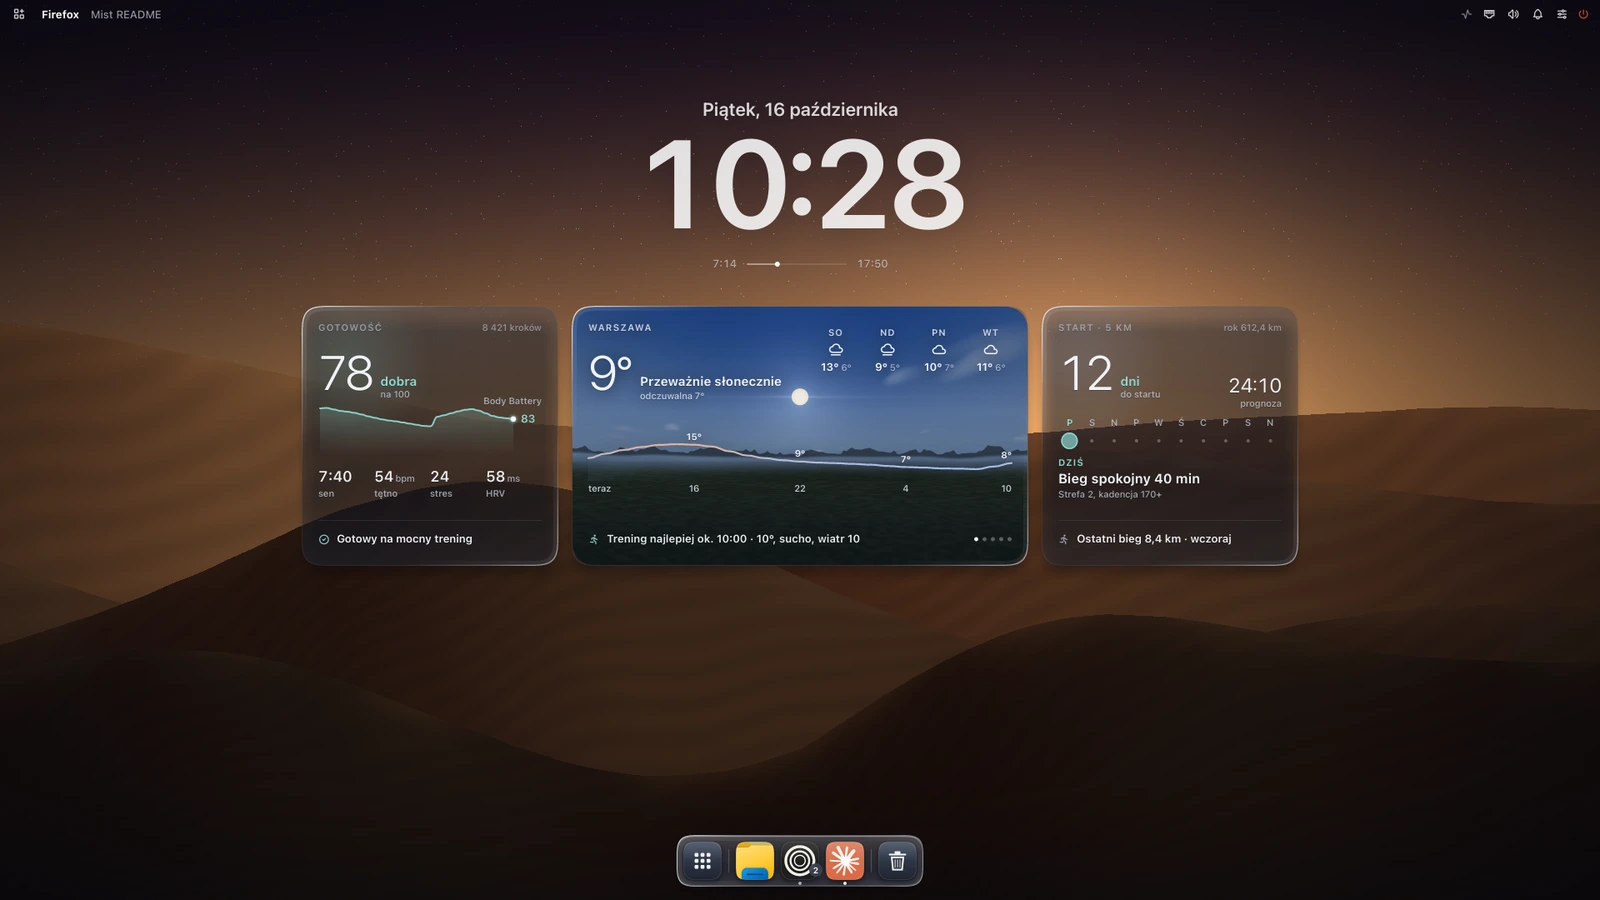
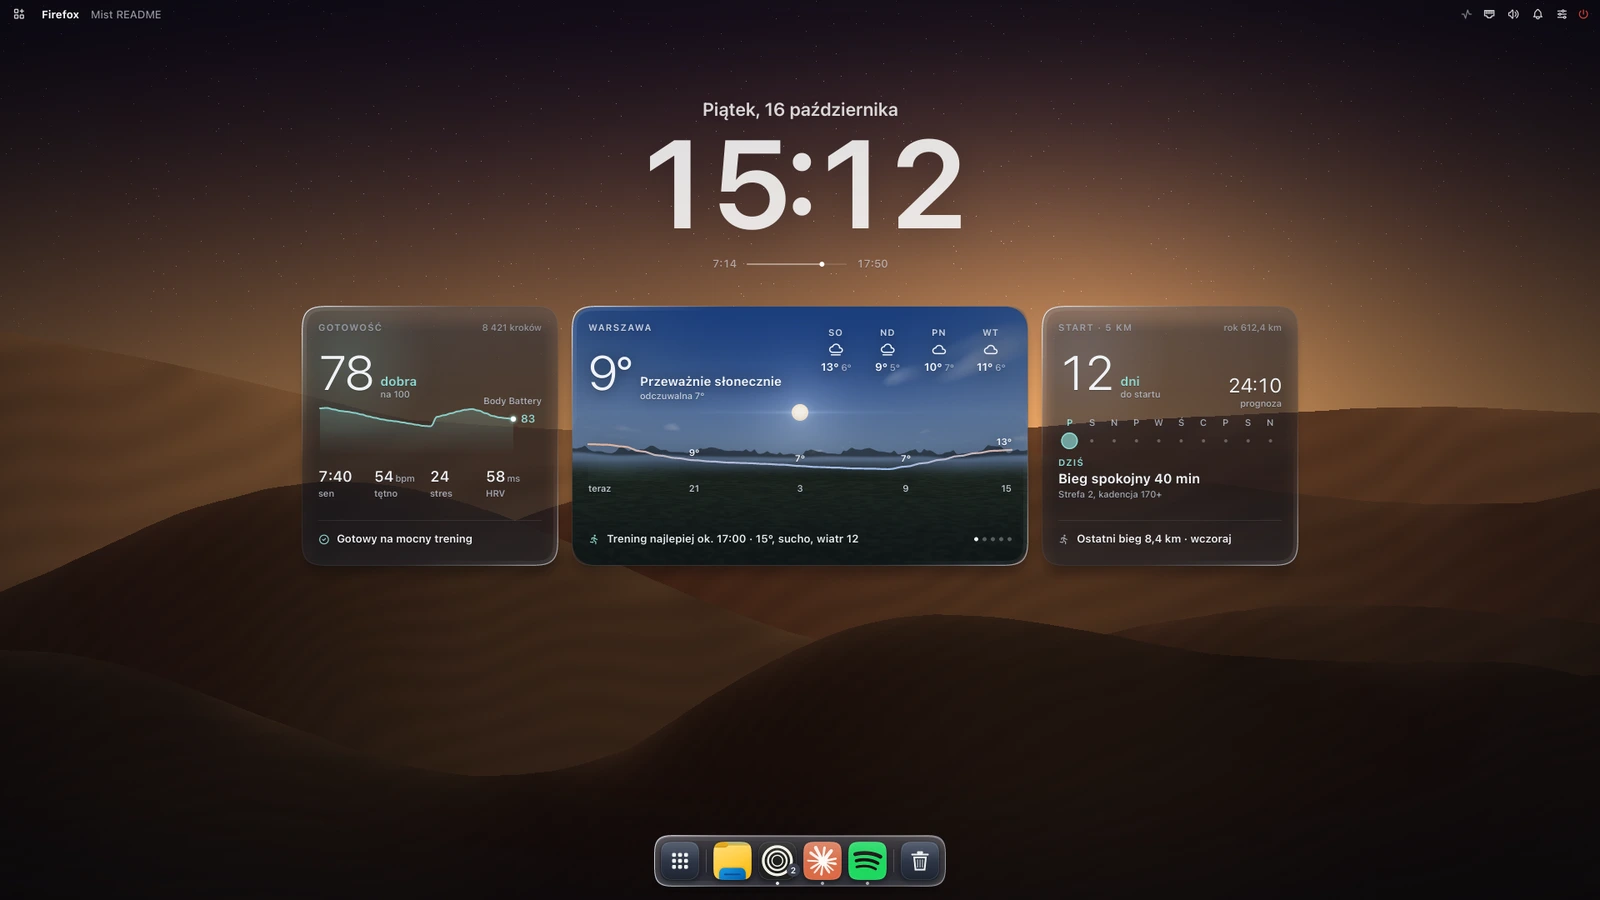
README: the weather card where the shell puts it, gifs of the island, the rain card and a live wallpaper; no island event for special:minimized
- hero.sh placed the weather card and its sky 60 px below the side cards (an old stage height); mist-ui
  --desk-png now writes layout.json (stage, card window, sky rect as the shell computes them) and hero.sh
  reads it: card at 646,327, sky at 687,368 like the live sky.json
- docs/img/gifs.sh: wallpaper.gif (dunes, 4 s), weather.gif (the demo card in the rain over its sky),
  island.gif (notification, volume, rain soon, next event), offscreen with the demo data only;
  mist-wall --png with MIST_WALL_FRAMES=N [MIST_WALL_FPS], mist-ui --island-frames <demo> <out> [n] [fps];
  the demo notification is translated (i18n.tsv)
- minimizing parks windows on special:minimized: the island no longer shows "obszar specjalny" for it
  (test special_tests::minimized_is_quiet)

diff --git a/native/mist-ui/src/island.rs b/native/mist-ui/src/island.rs
@@ -584,7 +584,8 @@ impl Island {
                     return;
                 }
                 let ws = d.split(',').next().unwrap_or("");
-                if !ws.is_empty() {
+                // special:minimized is where minimizing parks windows, not a place the user goes to
+                if !ws.is_empty() && ws != "special:minimized" {
                     let t = ws.trim_start_matches("special").trim_start_matches(':');
                     self.push(info("special", 1, 1500, "layers", PURPLE, if t.is_empty() { "Brudnopis" } else { t }, "obszar specjalny"));
                 }
@@ -1056,7 +1057,7 @@ impl Island {
         let e = match kind {
             "volume" => Ev { view: "osd", key: "vol".into(), prio: 3, dur: 2500, value: -1, ..Default::default() },
             "mic-volume" => Ev { view: "osd", key: "vol".into(), prio: 3, dur: 2500, mic: true, value: -1, ..Default::default() },
-            "notif" => Ev { view: "notif", prio: 2, dur: 5000, app: "Zen Browser".into(), icon: "zen-browser".into(), title: "Nowa wiadomość od Kasi".into(), body: "Hej! Widzimy się dziś o 18 na bieganiu? Weź bidon, bo ma być ciepło.".into(), value: -1, ..Default::default() },
+            "notif" => Ev { view: "notif", prio: 2, dur: 5000, app: "Zen Browser".into(), icon: "zen-browser".into(), title: crate::i18n::tr("Nowa wiadomość od Kasi").into_owned(), body: crate::i18n::tr("Hej! Widzimy się dziś o 18 na bieganiu? Weź bidon, bo ma być ciepło.").into_owned(), value: -1, ..Default::default() },
             "notif-long" => Ev { view: "notif", prio: 2, dur: 8000, app: "Thunderbird".into(), icon: "thunderbird".into(), title: "Plan treningowy na październik".into(), body: "Cześć! W załączniku plan na najbliższe cztery tygodnie: dwa akcenty w tygodniu (interwały i tempo), jedno długie wybieganie w niedzielę, reszta spokojnie w drugiej strefie. Daj znać, jak się czujesz po sobotnim starcie.".into(), value: -1, ..Default::default() },
             "progress" => Ev { view: "notif", key: "v:demo".into(), prio: 2, dur: 6000, app: "Pobieranie".into(), icon: "folder-download".into(), title: "archlinux-2026.10.01-x86_64.iso".into(), body: "1,1 GB z 1,4 GB · 12 s".into(), value: 78, ..Default::default() },
             "urgent" => Ev { view: "notif", prio: 3, dur: 9000, app: "System".into(), icon: "dialog-warning".into(), title: "Mało miejsca na dysku".into(), body: "Na partycji / zostało 2,1 GB.".into(), urgent: true, value: -1, pulse: true, ..Default::default() },
@@ -2302,3 +2303,18 @@ pub fn extract_codes(text: &str, links: &[String]) -> Vec<String> {
     codes
 }
 
+#[cfg(test)]
+mod special_tests {
+    use super::*;
+    // minimizing parks windows on special:minimized: no "special workspace" event for it, others still shown
+    #[test]
+    fn minimized_is_quiet() {
+        let apps = Apps { entries: Vec::new() };
+        let mut isl = Island::new();
+        isl.armed = true;
+        isl.on_hypr("activespecial", "special:minimized,DP-3", &apps, &[], "");
+        assert!(isl.ev.is_none() && isl.queue.is_empty());
+        isl.on_hypr("activespecial", "special:scratch,DP-3", &apps, &[], "");
+        assert_eq!(isl.ev.as_ref().map(|e| e.key.as_str()), Some("special"));
+    }
+}

diff --git a/native/mist-ui/src/main.rs b/native/mist-ui/src/main.rs
@@ -116,6 +116,14 @@ fn main() {
         d.wx.paint(&mut c, &mut t, &wx, &g, &d.cfg);
         eprintln!("card {:?}", t0.elapsed());
         c.pm.save_png(format!("{}/card.png", args[2])).unwrap();
+        // where the shell puts them on a 1920 px monitor (stage, card window, the sky under it), for docs/img
+        let (cx, cy) = d.card_at(&mut t);
+        let layout = serde_json::json!({
+            "stage": [(d.out_w - desktop::STAGE_W as i32) / 2, desktop::STAGE_TOP],
+            "card": [cx - p as i32, cy - p as i32],
+            "sky": [cx + 1, cy + 1, desktop::WX_W as i32 - 2, desktop::BENTO_H as i32 - 2],
+        });
+        std::fs::write(format!("{}/layout.json", args[2]), layout.to_string()).unwrap();
         return;
     }
     // `--wall-ppm out.ppm`: the main monitor's photo wallpaper (with the vignette), for checks
@@ -134,7 +142,7 @@ fn main() {
     }
     // `--island-bench <demo> [out.png]`: an island demo drawn every 16 ms for 1.5 s (frame cost, to_bgra cost),
     // the last frame into a PNG
-    if args.get(1).map(|s| s.as_str()) == Some("--island-bench") {
+    if matches!(args.get(1).map(|s| s.as_str()), Some("--island-bench" | "--island-frames")) {
         let (mut t, mut ic, mut im, ph) = (text::Text::new(), apps::Icons::new(), img::Images::new(), phone::State::default());
         let mut isl = island::Island::new();
         let mut c = gfx::Canvas::new(island::WIN_W, island::WIN_H);
@@ -185,6 +193,20 @@ fn main() {
             return;
         }
         isl.demo(kind);
+        // `--island-frames <demo> <out> [n] [fps]`: the demo drawn in real time into <out>.000.png.. (README gifs)
+        if args[1] == "--island-frames" {
+            // the volume demo at 64 % (no audio state here: 0 %, muted)
+            isl.audio = sys::Audio { vol: 0.64, sink_desc: "Speakers".into(), ..isl.audio.clone() };
+            let n: u32 = args.get(4).and_then(|s| s.parse().ok()).unwrap_or(60);
+            let fps: f64 = args.get(5).and_then(|s| s.parse().ok()).unwrap_or(30.0);
+            for i in 0..n {
+                isl.tick(false, false);
+                frame(&mut isl, &mut c);
+                c.pm.save_png(format!("{}.{i:03}.png", args[3])).unwrap();
+                std::thread::sleep(std::time::Duration::from_secs_f64(1.0 / fps));
+            }
+            return;
+        }
         let (start, mut n, mut us) = (std::time::Instant::now(), 0u64, 0u64);
         while start.elapsed().as_millis() < 1500 {
             us += frame(&mut isl, &mut c);

diff --git a/native/mist-wall/src/main.rs b/native/mist-wall/src/main.rs
@@ -1468,6 +1468,34 @@ fn main() {
                 app.gl().finish();
                 eprintln!("bench {what} {w}x{h}: {:.3} ms/frame", t0.elapsed().as_secs_f64() * 1000.0 / n.max(1) as f64);
             }
+            // MIST_WALL_FRAMES=N [MIST_WALL_FPS=15]: N frames as <out>.000.ppm.. (the README's gifs), the scene's
+            // clock moving as in the shell; the sky in real time (its particles follow the wall clock)
+            if let Some(n) = std::env::var("MIST_WALL_FRAMES").ok().and_then(|n| n.parse::<u32>().ok()) {
+                let dt = 1.0 / std::env::var("MIST_WALL_FPS").ok().and_then(|f| f.parse::<f64>().ok()).unwrap_or(15.0);
+                for i in 0..n {
+                    if what == "sky" {
+                        std::thread::sleep(Duration::from_secs_f64(dt));
+                        app.sky.off_x += app.sky.model.cloud_speed * dt;
+                        app.sky.evo += (0.03 + app.sky.model.wind * 0.001) * dt;
+                    } else {
+                        let (_, _, wind_k) = app.uniforms(1.0, 1.0);
+                        app.t += app.preset()["speed"].as_f64().unwrap_or(1.0) * presets::tempo(&app.tempo) as f64 * wind_k as f64 * dt;
+                    }
+                    bind(&app);
+                    match what.as_str() {
+                        "sky" => app.sky_scene(w, h),
+                        _ => app.wall_frame(w, h, true),
+                    }
+                    app.gl().read_pixels(0, 0, w, h, glow::RGBA, glow::UNSIGNED_BYTE, glow::PixelPackData::Slice(Some(&mut px)));
+                    let mut out = format!("P6\n{w} {h}\n255\n").into_bytes();
+                    for y in (0..h).rev() {
+                        for p in px[(y * w * 4) as usize..((y + 1) * w * 4) as usize].chunks_exact(4) {
+                            out.extend_from_slice(&p[..3]);
+                        }
+                    }
+                    std::fs::write(format!("{}.{i:03}.ppm", args[2]), out).unwrap();
+                }
+            }
             app.gl().read_pixels(0, 0, w, h, glow::RGBA, glow::UNSIGNED_BYTE, glow::PixelPackData::Slice(Some(&mut px)));
         }
         // GL rows go bottom-up; un-premultiply nothing (alpha shown over black)

diff --git a/README.md b/README.md
@@ -17,7 +17,10 @@ lock screen and polkit agent in one ~50 MB process, without a GPU context.
 
 ![Mist desktop](docs/img/desktop-en.webp)
 
-<sub>Offscreen render (`mist-ui --desk-png`, `--dock-png`, `--png`, `mist-wall-bin --png`) with the demo data in `docs/demo`, rebuilt by [docs/img/hero.sh](docs/img/hero.sh).
+<img src="docs/img/island.gif" width="49%" alt="Dynamic Island: a notification, the volume, rain soon, the next event"> <img src="docs/img/weather.gif" width="49%" alt="The weather card in the rain">
+<img src="docs/img/wallpaper.gif" width="98.5%" alt="A live wallpaper (dunes)">
+
+<sub>Offscreen render (`mist-ui --desk-png`, `--dock-png`, `--png`, `mist-wall-bin --png`) with the demo data in `docs/demo`, rebuilt by [docs/img/hero.sh](docs/img/hero.sh) and [docs/img/gifs.sh](docs/img/gifs.sh).
 On a real session Hyprland blurs under the glass.</sub>
 
 </div>
